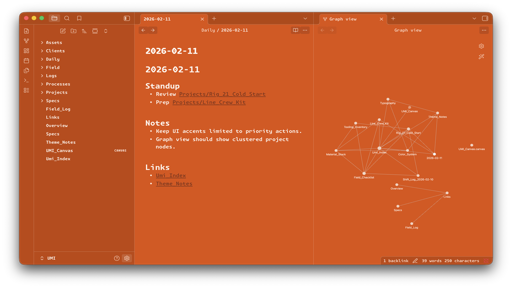
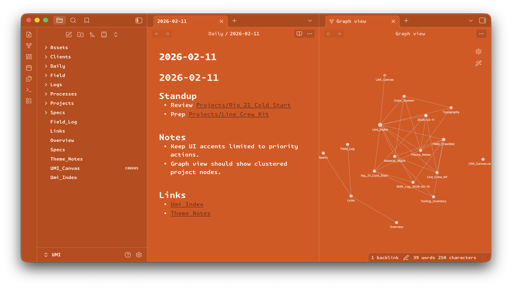
refine theme

diff --git a/theme.css b/theme.css
@@ -17,6 +17,8 @@
   --umi-orange: #e05000;
   --umi-orange-bright: #f15f0d;
   --umi-orange-deep: #c24400;
+  --umi-line-orange: rgba(224, 80, 0, 0.55);
+  --umi-line-orange-soft: rgba(224, 80, 0, 0.35);
   --umi-charcoal-1: #2b2b2b;
   --umi-charcoal-2: #232323;
   --umi-charcoal-3: #32302f;
@@ -54,6 +56,10 @@
   --background-modifier-border: #504945;
   --background-modifier-hover: #3c3836;
   --background-modifier-active-hover: #504945;
+  --divider-color: var(--umi-line-orange-soft);
+  --tab-divider-color: var(--umi-line-orange-soft);
+  --tab-outline-color: var(--umi-line-orange);
+  --tab-outline-width: 1px;
 
   --text-selection: rgba(224, 80, 0, 0.35);
   --text-highlight-bg: rgba(224, 80, 0, 0.2);
@@ -217,6 +223,24 @@
     linear-gradient(transparent 95%, rgba(255, 255, 255, 0.03) 95%),
     linear-gradient(90deg, transparent 95%, rgba(255, 255, 255, 0.03) 95%);
   background-size: 24px 24px;
+}
+
+/* Wasp-like line borders in orange */
+.theme-dark .workspace-ribbon,
+.theme-dark .workspace-split.mod-root,
+.theme-dark .workspace-split.mod-root .workspace-leaf-content,
+.theme-dark .workspace-tab-header-container,
+.theme-dark .workspace-tabs,
+.theme-dark .mod-sidedock .workspace-tab-container,
+.theme-dark .modal,
+.theme-dark .vertical-tab-header,
+.theme-dark .setting-item {
+  border-color: var(--umi-line-orange-soft) !important;
+}
+
+.theme-dark .workspace-tab-header {
+  border-color: var(--umi-line-orange-soft) !important;
+  box-shadow: inset 0 -1px 0 var(--umi-line-orange-soft);
 }
 
 body {

diff --git a/README.md b/README.md
@@ -1,23 +1,96 @@
-# Utility Materials Official Obsidian Theme
+# Utility Materials — Obsidian Theme
 
-[Utility Materials](https://utility.materials.nyc) inspired Obsidian theme built on dark greys with restrained orange accents.
+Utility Materials–inspired Obsidian theme built for dense notes, technical writing, and system thinking.
+
+Dark greys. High contrast. Restrained orange.
 
 ![Dark mode](screenshot.png)
 
 ![Light mode](screenshot-light.png)
 
-Utility Materials is a New York-based company specializing in technical workwear and industrial equipment for energy infrastructure professionals. This theme is built with the same no-nonsense, field-ready sensibility: dense materials, high contrast, and a controlled accent for the signal, not the noise.
+---
 
-## Install (local)
-1. Copy this folder into your vault at `.obsidian/themes/`.
-2. In Obsidian, go to `Settings -> Appearance -> Themes` and select `Utility Materials`.
+## Overview
+
+This theme is modeled after the visual language of [Utility Materials](https://utility.materials.nyc), a New York–based clothing brand focused on technical workwear and industrial design.
+
+It carries the same principles:
+
+- High signal, low noise  
+- Dense materials and tight spacing  
+- Strong hierarchy  
+- Controlled accent color for intent, not decoration  
+
+The orange is not a flourish. It is a status light.
+
+---
+
+## Design Principles
+
+- **Legibility first.** Designed for long-form writing and technical notes.
+- **Contrast as structure.** Dark surfaces with precise separation between panels.
+- **Minimal chrome.** Interface elements recede. Content holds weight.
+- **Accent discipline.** Orange appears only where meaning changes: links, highlights, selection states.
+
+No gradients. No glow. No ornamental softness.
+
+---
+
+## Install (Local)
+
+1. Copy this folder into your vault at:
+
+.obsidian/themes/
+
+2. In Obsidian, go to:
+
+Settings → Appearance → Themes
+
+3. Select **Utility Materials**.
+
+---
 
 ## Font
-This theme expects `Monaspace Krypton Frozen` to be [installed locally](https://github.com/githubnext/monaspace). If it is not installed, it will fall back to other Monaspace faces or `monospace`.
 
-## Other Utility Materials Themes
-  - [VSCode / Cursor](https://marketplace.visualstudio.com/items?itemName=Utility-Materials.utility-materials-theme)
-  - [Blender](https://extensions.blender.org/themes/utility-materials/)
+This theme expects **Monaspace Krypton Frozen** to be installed locally:
+
+https://github.com/githubnext/monaspace
+
+If unavailable, it falls back to other Monaspace variants or your system `monospace`.
+
+The spacing and weight balance are tuned around Monaspace. Install it for intended density and rhythm.
+
+---
+
+## Color System
+
+- **Primary surfaces:** Dark greys, low reflectivity  
+- **Text:** High-contrast neutral  
+- **Accent:** Industrial orange (restricted usage)
+
+The accent is designed to feel infrastructural, not expressive. It should read like a warning stripe or grid indicator.
+
+---
+
+## Related Utility Materials Themes
+
+For consistency across tools:
+
+- VSCode / Cursor  
+https://marketplace.visualstudio.com/items?itemName=Utility-Materials.utility-materials-theme  
+
+- Blender  
+https://extensions.blender.org/themes/utility-materials/
+
+---
 
 ## Credits
-  - Based in part on [Wasp Obsidian Theme](https://github.com/santiyounger/Wasp-Obsidian-Theme) by Santi Younger.
+
+Based in part on the Wasp Obsidian Theme by Santi Younger:  
+https://github.com/santiyounger/Wasp-Obsidian-Theme
+
+---
+
+Built for operators.
+
+Powering what humanity is destined for.
